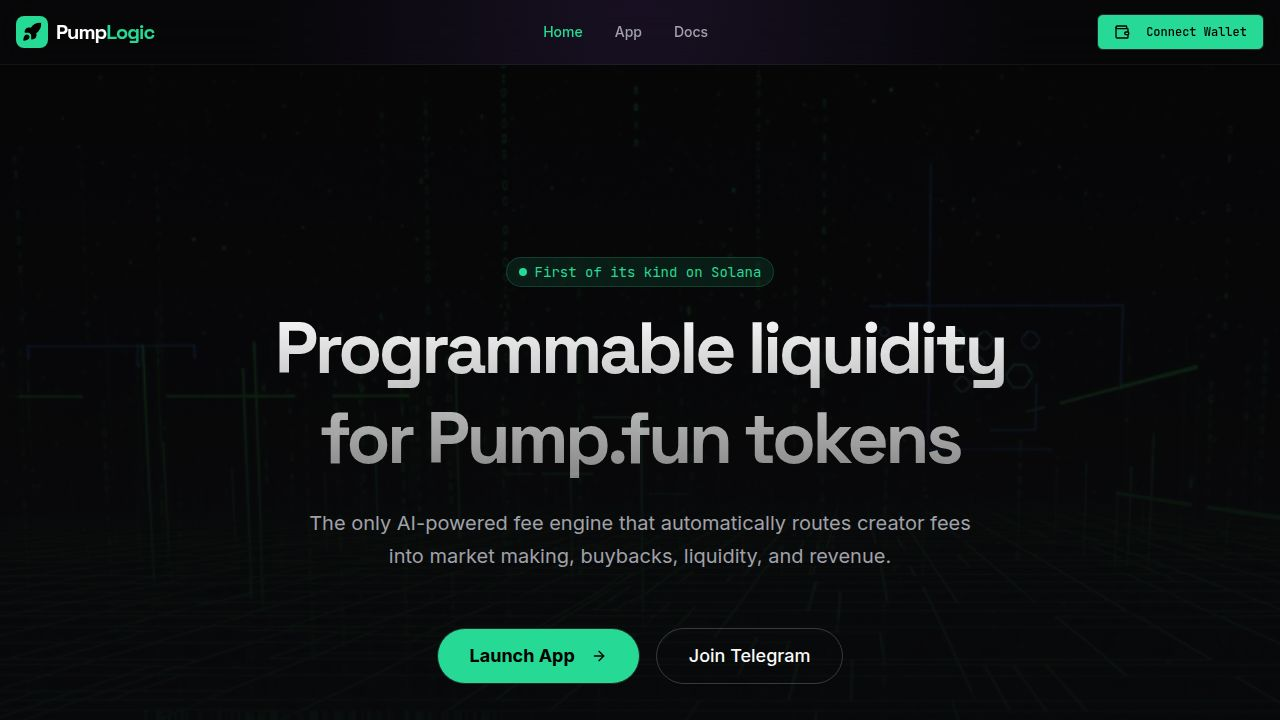
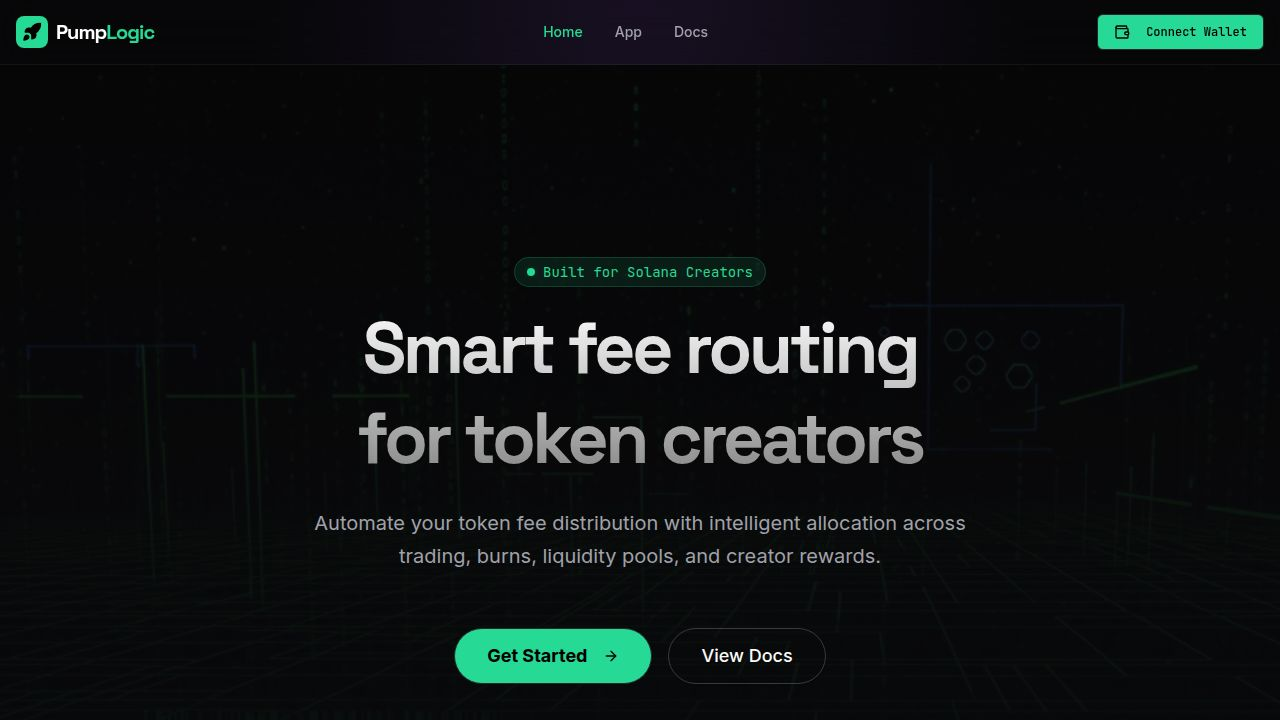
Update website text to reflect unique branding and functionality
Rewrites meta tags and homepage content in `client/index.html` and `client/src/pages/home.tsx` to use unique phrasing and updated descriptions.

Replit-Commit-Author: Agent
Replit-Commit-Session-Id: 2585299b-9637-488b-8496-783835317285
Replit-Commit-Checkpoint-Type: full_checkpoint
Replit-Commit-Event-Id: d38d07ed-490d-44ef-a393-56a959eb7c69
Replit-Commit-Screenshot-Url: https://storage.googleapis.com/screenshot-production-us-central1/2bad6cc9-0753-4a81-a241-f469247d4355/2585299b-9637-488b-8496-783835317285/45O3pOR
Replit-Helium-Checkpoint-Created: true

diff --git a/client/src/pages/home.tsx b/client/src/pages/home.tsx
@@ -25,44 +25,44 @@ export default function Home() {
               <span className="animate-ping absolute inline-flex h-full w-full rounded-full bg-primary opacity-75"></span>
               <span className="relative inline-flex rounded-full h-2 w-2 bg-primary"></span>
             </span>
-            First of its kind on Solana
+            Built for Solana Creators
           </div>
           
           <h1 className="text-5xl md:text-7xl font-bold font-display tracking-tighter leading-tight bg-clip-text text-transparent bg-gradient-to-b from-white to-white/50">
-            Programmable liquidity <br /> for Pump.fun tokens
+            Smart fee routing <br /> for token creators
           </h1>
           
           <p className="text-xl text-muted-foreground max-w-2xl mx-auto leading-relaxed">
-            The only AI-powered fee engine that automatically routes creator fees into market making, buybacks, liquidity, and revenue.
+            Automate your token fee distribution with intelligent allocation across trading, burns, liquidity pools, and creator rewards.
           </p>
           
           <div className="flex flex-col sm:flex-row items-center justify-center gap-4 pt-8">
             <Link href="/app">
               <Button size="lg" className="h-14 px-8 text-lg bg-primary text-black hover:bg-primary/90 rounded-full font-bold">
-                Launch App <ArrowRight className="ml-2 h-5 w-5" />
+                Get Started <ArrowRight className="ml-2 h-5 w-5" />
               </Button>
             </Link>
             <Button size="lg" variant="outline" className="h-14 px-8 text-lg border-white/20 hover:bg-white/5 rounded-full">
-              Join Telegram
+              View Docs
             </Button>
           </div>
           
           <div className="pt-12 grid grid-cols-2 md:grid-cols-4 gap-8 max-w-3xl mx-auto border-t border-white/5 mt-12">
             <div>
               <div className="text-3xl font-bold font-mono text-white">4</div>
-              <div className="text-sm text-muted-foreground uppercase tracking-widest mt-1">Fee Channels</div>
+              <div className="text-sm text-muted-foreground uppercase tracking-widest mt-1">Distribution Paths</div>
             </div>
             <div>
-              <div className="text-3xl font-bold font-mono text-white">24/7</div>
-              <div className="text-sm text-muted-foreground uppercase tracking-widest mt-1">Automation</div>
+              <div className="text-3xl font-bold font-mono text-white">100%</div>
+              <div className="text-sm text-muted-foreground uppercase tracking-widest mt-1">On-Chain</div>
             </div>
             <div>
               <div className="text-3xl font-bold font-mono text-white">AI</div>
-              <div className="text-sm text-muted-foreground uppercase tracking-widest mt-1">Optimized</div>
+              <div className="text-sm text-muted-foreground uppercase tracking-widest mt-1">Powered</div>
             </div>
             <div>
-              <div className="text-3xl font-bold font-mono text-white">$12M+</div>
-              <div className="text-sm text-muted-foreground uppercase tracking-widest mt-1">Volume Processed</div>
+              <div className="text-3xl font-bold font-mono text-white">Instant</div>
+              <div className="text-sm text-muted-foreground uppercase tracking-widest mt-1">Execution</div>
             </div>
           </div>
         </motion.div>
@@ -72,30 +72,30 @@ export default function Home() {
       <section className="py-24 bg-black/50 border-y border-white/5">
         <div className="container mx-auto px-4">
           <div className="text-center mb-16">
-            <h2 className="text-sm font-mono text-primary uppercase tracking-widest mb-2">How it works</h2>
-            <h3 className="text-3xl md:text-4xl font-bold font-display text-white">Four strategic channels</h3>
+            <h2 className="text-sm font-mono text-primary uppercase tracking-widest mb-2">The Process</h2>
+            <h3 className="text-3xl md:text-4xl font-bold font-display text-white">Four allocation categories</h3>
           </div>
           
           <div className="grid md:grid-cols-2 lg:grid-cols-4 gap-6">
             <FeatureCard 
               icon={<TrendingUp className="h-8 w-8 text-primary" />}
               title="Market Making"
-              desc="RSI-timed trades create depth and stabilize price action automatically."
+              desc="Allocate funds to enhance trading depth and maintain healthy order books."
             />
             <FeatureCard 
               icon={<RefreshCw className="h-8 w-8 text-secondary" />}
               title="Buyback & Burn"
-              desc="Automatic buybacks with permanent burns. Deflationary by design."
+              desc="Reduce circulating supply through strategic token repurchases and burns."
             />
             <FeatureCard 
               icon={<Zap className="h-8 w-8 text-blue-400" />}
               title="Liquidity Pool"
-              desc="Auto-add to LP with permanent locks. Deeper liquidity over time."
+              desc="Strengthen your token's liquidity by contributing to decentralized pools."
             />
             <FeatureCard 
               icon={<Coins className="h-8 w-8 text-yellow-400" />}
               title="Creator Revenue"
-              desc="Direct revenue stream to fund development and growth."
+              desc="Receive a portion of fees to support ongoing project development."
             />
           </div>
         </div>
@@ -106,12 +106,12 @@ export default function Home() {
         <div className="max-w-4xl mx-auto bg-gradient-to-br from-primary/10 to-secondary/10 border border-white/10 rounded-3xl p-12 relative overflow-hidden">
           <div className="absolute top-0 left-0 w-full h-1 bg-gradient-to-r from-transparent via-primary to-transparent"></div>
           
-          <h2 className="text-4xl font-bold font-display mb-6">Ready to launch?</h2>
-          <p className="text-xl text-muted-foreground mb-8">Fair launch. No presale. No team allocation. Just technology.</p>
+          <h2 className="text-4xl font-bold font-display mb-6">Take control of your fees</h2>
+          <p className="text-xl text-muted-foreground mb-8">Connect your wallet and start optimizing your token's fee distribution today.</p>
           
           <Link href="/app">
             <Button size="lg" className="h-14 px-8 text-lg bg-primary text-black hover:bg-primary/90 rounded-full font-bold shadow-[0_0_20px_rgba(0,255,157,0.3)]">
-              Start Now <Rocket className="ml-2 h-5 w-5" />
+              Open Dashboard <Rocket className="ml-2 h-5 w-5" />
             </Button>
           </Link>
         </div>

diff --git a/client/index.html b/client/index.html
@@ -4,15 +4,15 @@
     <meta charset="UTF-8" />
     <meta name="viewport" content="width=device-width, initial-scale=1.0, maximum-scale=1" />
 
-    <title>PumpLogic - Programmable Liquidity</title>
-    <meta property="og:title" content="PumpLogic - Programmable Liquidity" />
-    <meta property="og:description" content="The only AI-powered fee engine that automatically routes creator fees into market making, buybacks, liquidity, and revenue." />
+    <title>PumpLogic - Smart Fee Routing</title>
+    <meta property="og:title" content="PumpLogic - Smart Fee Routing" />
+    <meta property="og:description" content="Automate your Solana token fee distribution with intelligent allocation across trading, burns, liquidity pools, and creator rewards." />
     <meta property="og:type" content="website" />
     <meta property="og:image" content="https://replit.com/public/images/opengraph.png" />
     <meta name="twitter:card" content="summary_large_image" />
     <meta name="twitter:site" content="@replit" />
-    <meta name="twitter:title" content="PumpLogic - Programmable Liquidity" />
-    <meta name="twitter:description" content="The only AI-powered fee engine that automatically routes creator fees into market making, buybacks, liquidity, and revenue." />
+    <meta name="twitter:title" content="PumpLogic - Smart Fee Routing" />
+    <meta name="twitter:description" content="Automate your Solana token fee distribution with intelligent allocation across trading, burns, liquidity pools, and creator rewards." />
     <meta name="twitter:image" content="https://replit.com/public/images/opengraph.png" />
 
     <link rel="icon" type="image/png" href="/favicon.png" />
